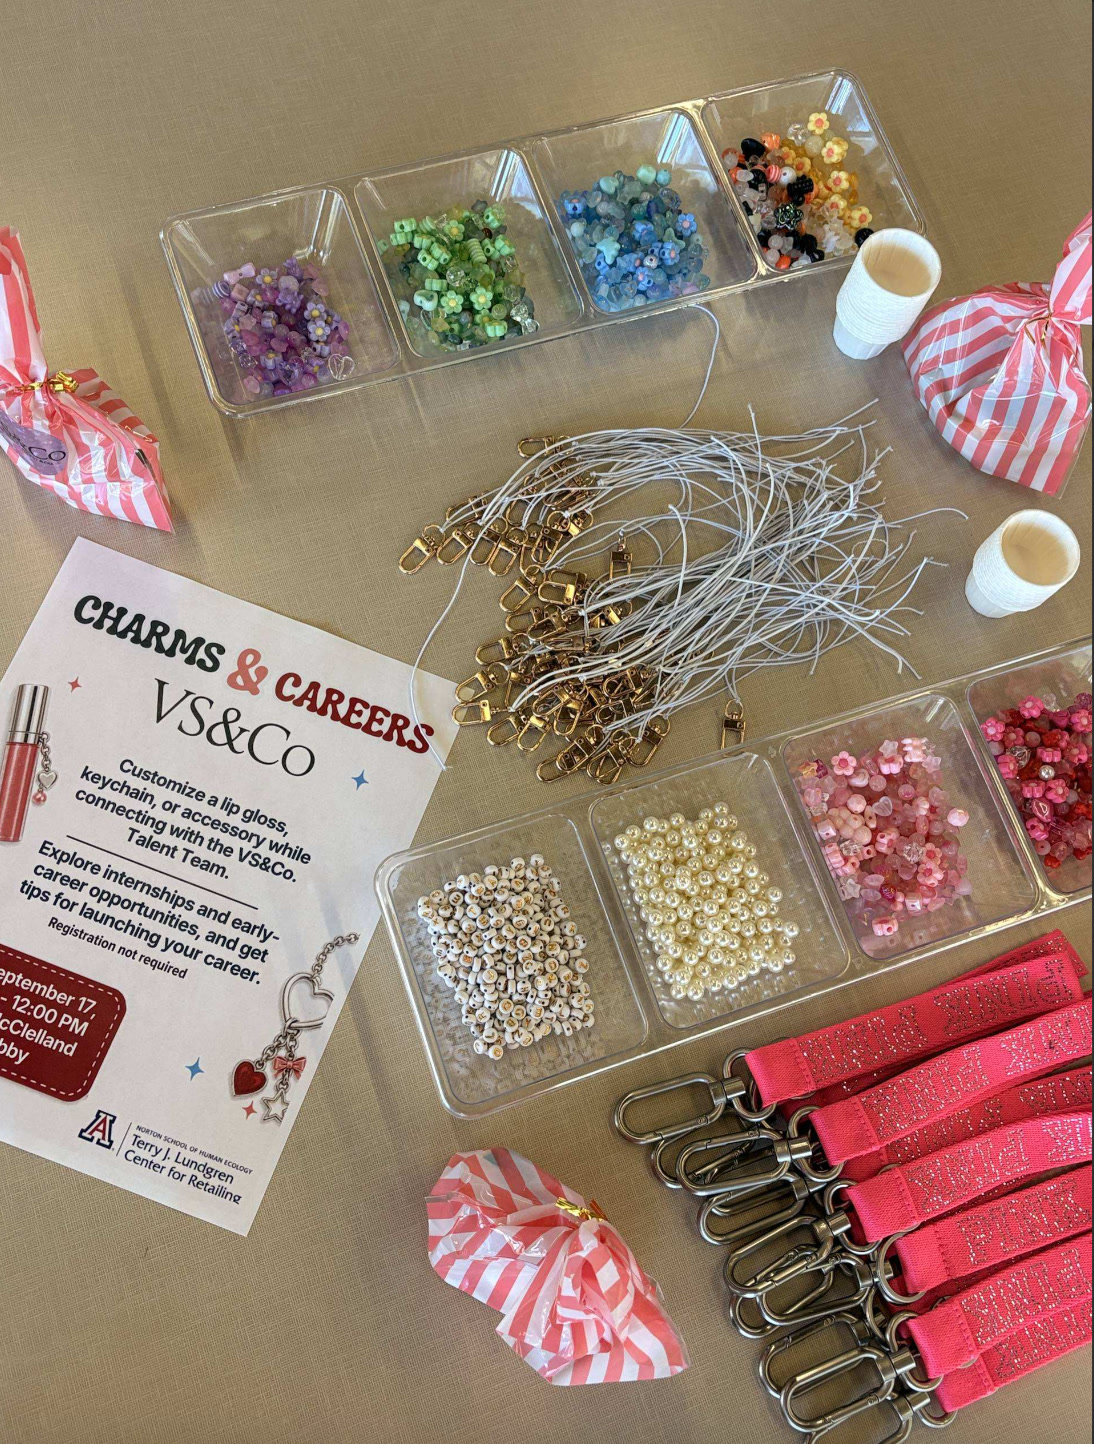
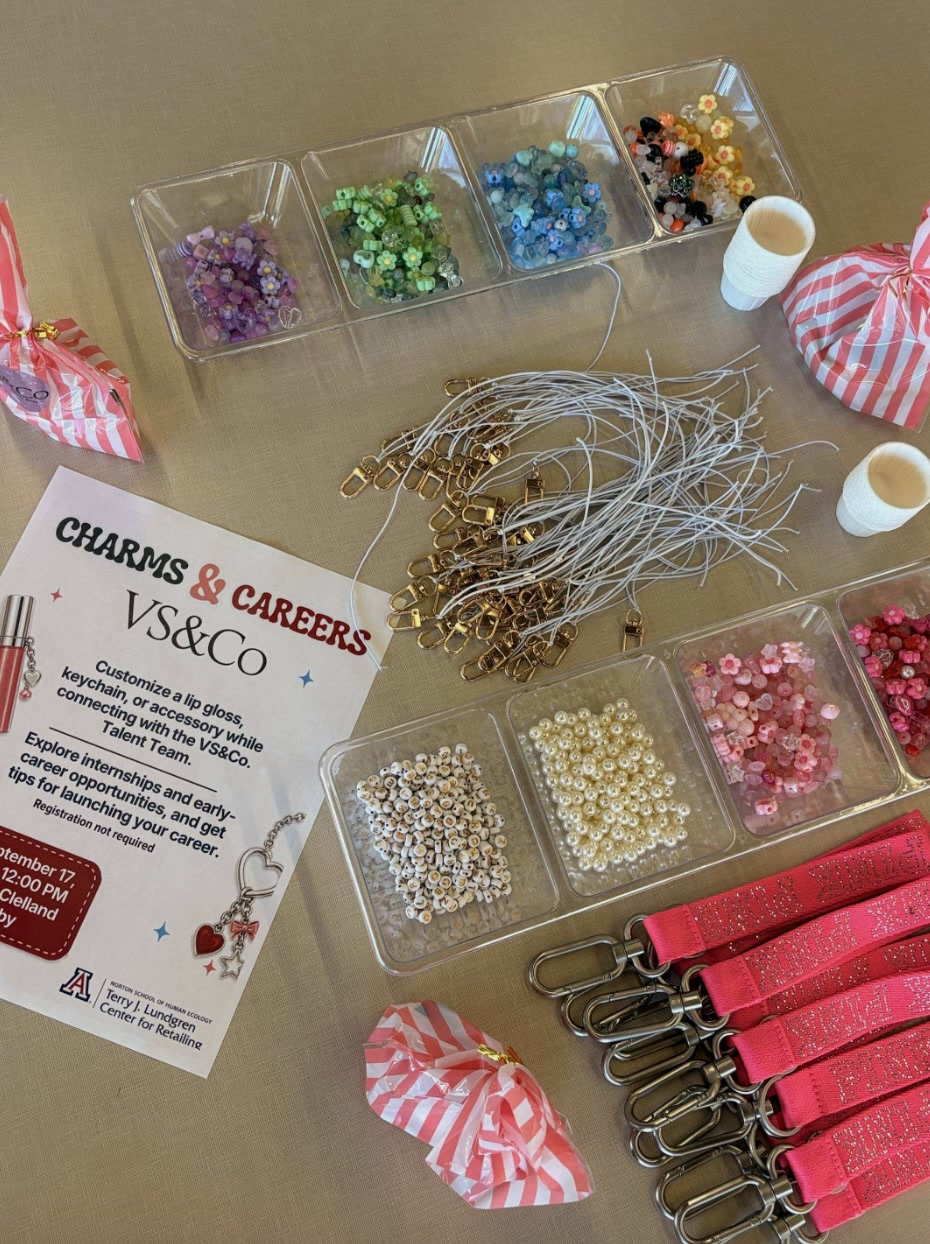
VS: lit event-setup photo full-bleed to match reel frame

diff --git a/styles.css b/styles.css
@@ -1020,7 +1020,7 @@ a:hover {
 }
 
 .vs-board-five .vs-reel video,
-.vs-board-five .vs-frame:not(.vs-frame--flyer) img {
+.vs-board-five .vs-frame img {
   width: 100%;
   aspect-ratio: 3 / 4;
   object-fit: cover;
@@ -1054,7 +1054,7 @@ a:hover {
   }
 }
 
-/* Top row: same frame size; flyer uses contain so CHARMS & CAREERS stay fully visible */
+/* Top row: Wear Test + event setup share identical full-bleed frames */
 .vs-board-five .vs-row-top .vs-reel,
 .vs-board-five .vs-row-top .vs-frame {
   display: flex;
@@ -1062,24 +1062,15 @@ a:hover {
 }
 
 .vs-board-five .vs-row-top .vs-reel video,
-.vs-board-five .vs-row-top .vs-frame img {
+.vs-board-five .vs-row-top .vs-frame img,
+.vs-board-five .vs-row-top .vs-frame--flyer img {
   width: 100%;
   aspect-ratio: 3 / 4;
   max-height: 340px;
   margin-inline: auto;
   display: block;
-  background: #efe8dc;
-}
-
-.vs-board-five .vs-row-top .vs-reel video {
   object-fit: cover;
   object-position: center center;
   background: #111;
-}
-
-.vs-board-five .vs-row-top .vs-frame--flyer img,
-.vs-board-five .vs-row-top .vs-frame img {
-  object-fit: contain;
-  object-position: center center;
 }
 

diff --git a/index.html b/index.html
@@ -8,7 +8,7 @@
   <link rel="preconnect" href="https://fonts.googleapis.com" />
   <link rel="preconnect" href="https://fonts.gstatic.com" crossorigin />
   <link href="https://fonts.googleapis.com/css2?family=Cormorant+Garamond:ital,wght@0,400;0,500;0,600;1,400;1,500&family=DM+Sans:opsz,wght@9..40,300;9..40,400;9..40,500&display=swap" rel="stylesheet" />
-  <link rel="stylesheet" href="styles.css?v=vs-swap1" />
+  <link rel="stylesheet" href="styles.css?v=vs-fill" />
 </head>
 <body>
   <a class="skip-link" href="#home">Skip to content</a>
@@ -315,7 +315,7 @@
               <figcaption>Wear Test reel</figcaption>
             </figure>
             <figure class="vs-frame vs-frame--flyer">
-              <img src="assets/images/vs/vs-charms-careers-flyer.jpg?v=flatlay1" alt="Charms &amp; Careers station setup with flyer, beads, and PINK wristlets" loading="lazy" />
+              <img src="assets/images/vs/vs-charms-careers-flyer.jpg?v=lit1" alt="Charms &amp; Careers station setup with flyer, beads, and PINK wristlets" loading="lazy" />
               <figcaption>Event setup</figcaption>
             </figure>
           </div>
